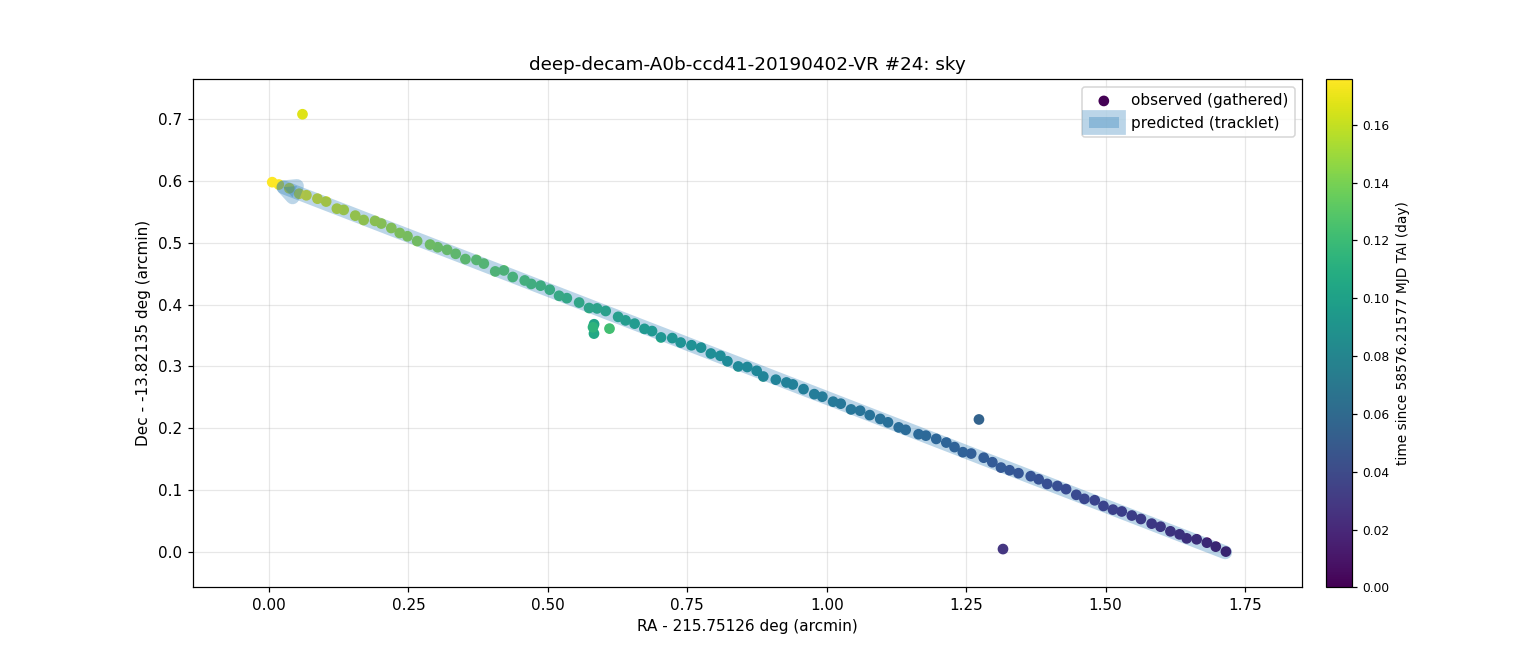
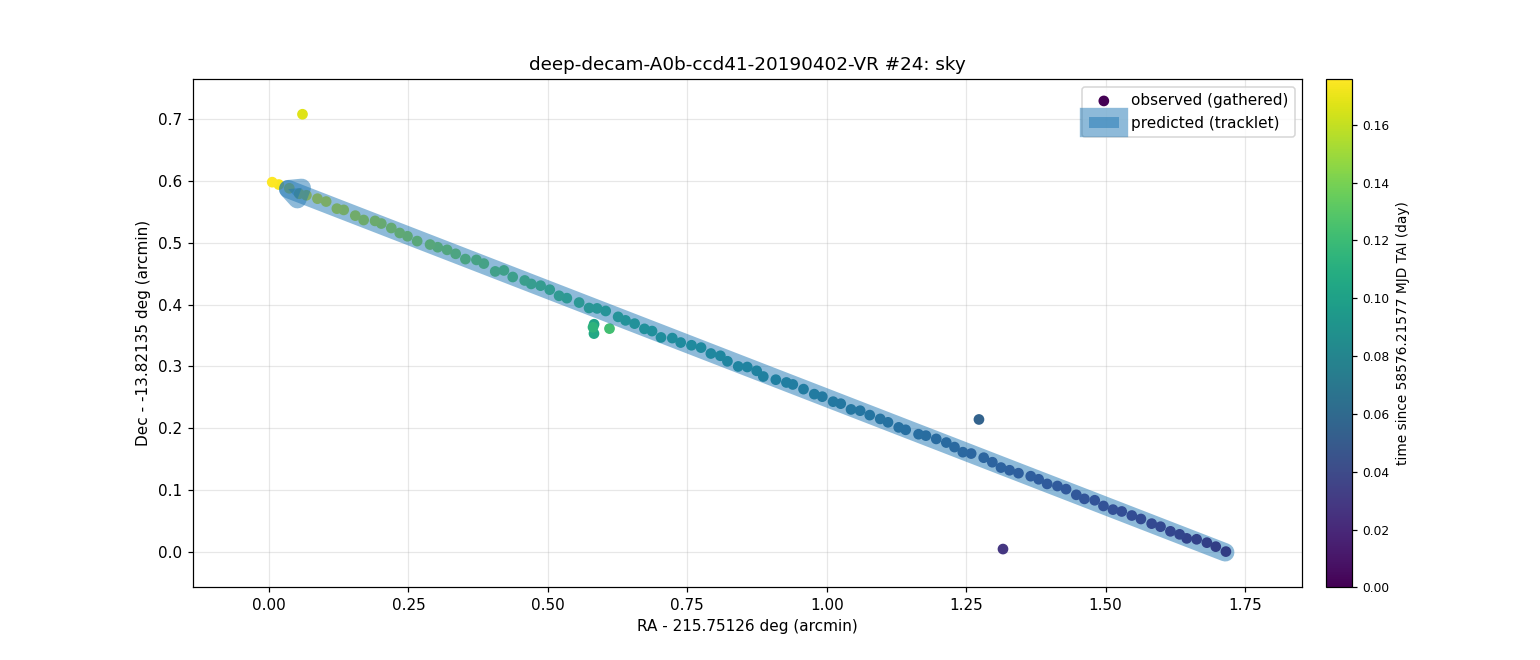
Tracklet arrow: linewidth 9 -> 12, alpha 0.3 -> 0.5

Changed region(s): [[0.1558, 0.2727, 0.8104, 0.8485], [0.6857, 0.1515, 0.7481, 0.2121]]

diff --git a/src/deep_asteroids/viz/result.py b/src/deep_asteroids/viz/result.py
@@ -233,7 +233,7 @@ def render_sky_plot(run_id, result_num, tracklet, gathered, exposure_times, out_
     # shrinkA/shrinkB=0: FancyArrowPatch's own default (2pt each) pulls both ends in from the
     # given points, so the tip visibly stopped short of the actual last detection -- 0 makes
     # it touch tmin/tmax exactly.
-    ax.add_patch(FancyArrowPatch((ra0_am, dec0_am), (ra1_am, dec1_am), color="C0", alpha=0.3, linewidth=9,
+    ax.add_patch(FancyArrowPatch((ra0_am, dec0_am), (ra1_am, dec1_am), color="C0", alpha=0.5, linewidth=12,
                                  arrowstyle="-|>", mutation_scale=20, zorder=3, shrinkA=0, shrinkB=0,
                                  label="predicted (tracklet)"))
 
@@ -241,8 +241,8 @@ def render_sky_plot(run_id, result_num, tracklet, gathered, exposure_times, out_
     if matched_track is not None:
         mra0_am, mdec0_am = arcmin(matched_track[0], matched_track[1])
         mra1_am, mdec1_am = arcmin(matched_track[2], matched_track[3])
-        ax.add_patch(FancyArrowPatch((mra0_am, mdec0_am), (mra1_am, mdec1_am), color="C1", alpha=0.3,
-                                     linewidth=9, arrowstyle="-|>", mutation_scale=20, zorder=3,
+        ax.add_patch(FancyArrowPatch((mra0_am, mdec0_am), (mra1_am, mdec1_am), color="C1", alpha=0.5,
+                                     linewidth=12, arrowstyle="-|>", mutation_scale=20, zorder=3,
                                      shrinkA=0, shrinkB=0, linestyle="--",
                                      label=f"matched {matched.source} track"))
         xs.append([mra0_am, mra1_am])
